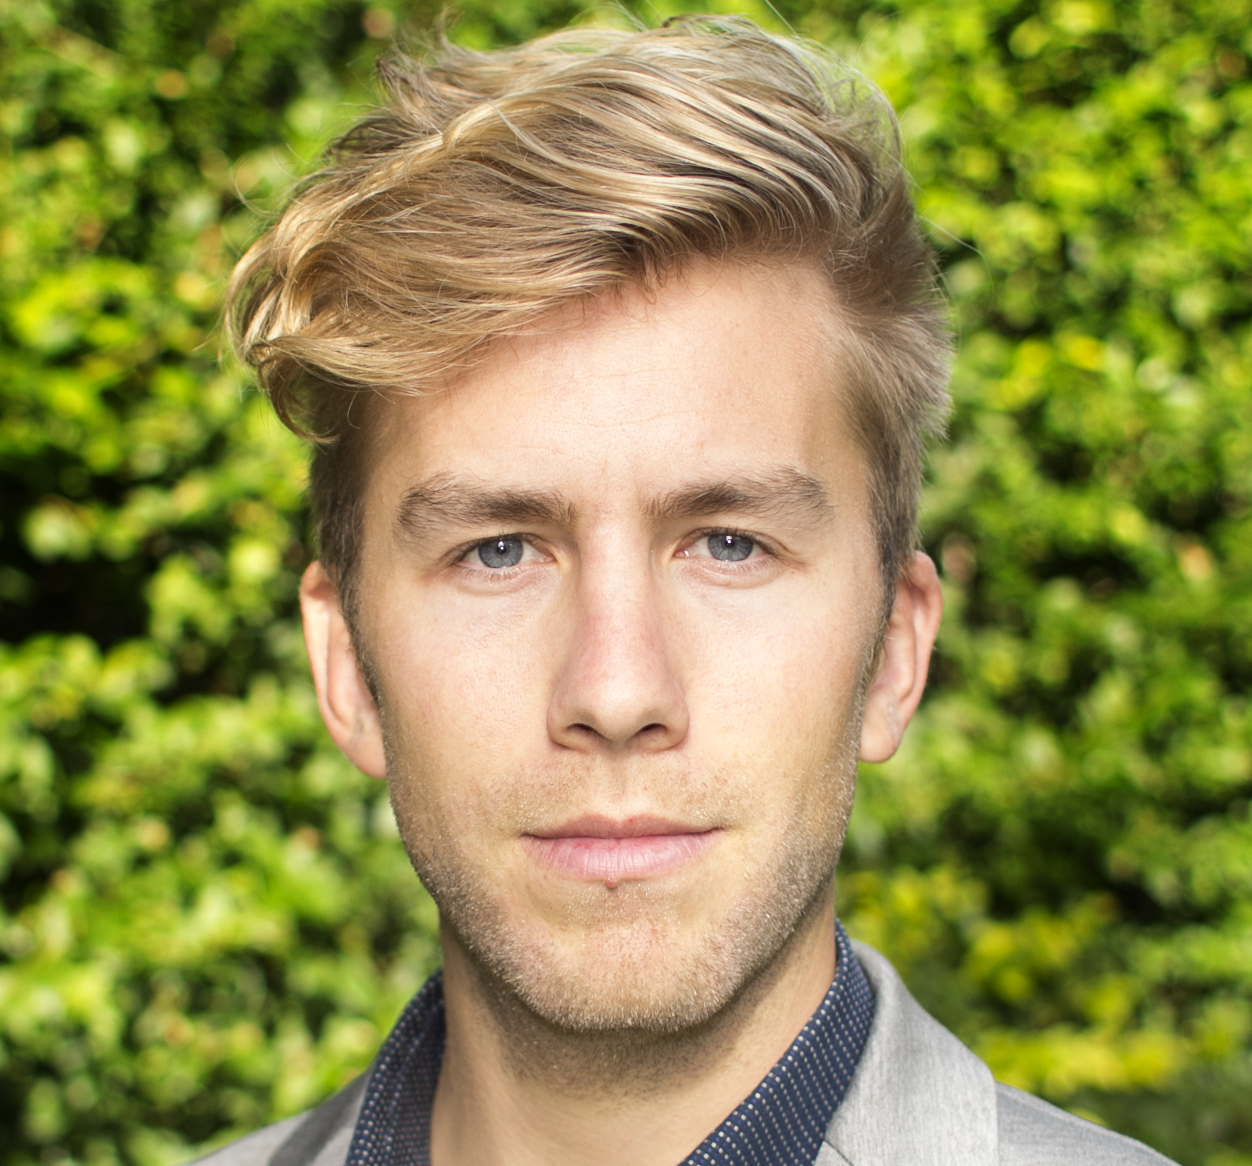
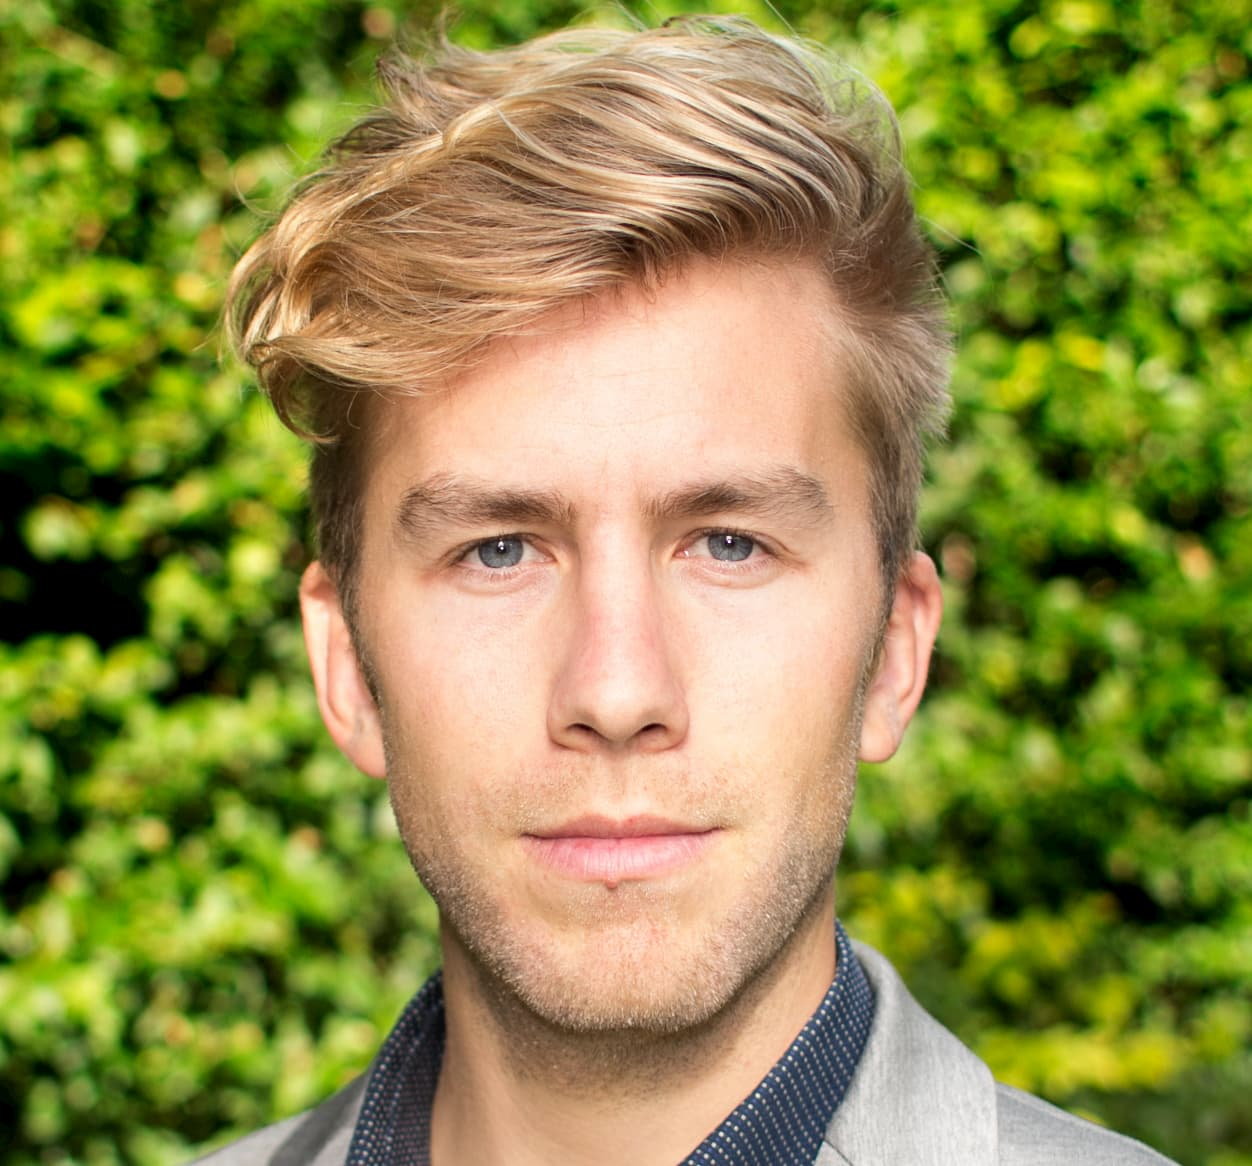
Img size update

diff --git a/style.css b/style.css
@@ -1,8 +1,10 @@
 @import url('https://fonts.googleapis.com/css2?family=Dancing+Script:wght@600&display=swap');
+@import url('https://fonts.googleapis.com/css2?family=Chewy&display=swap');
 
 
 html, body {
   font-family: 'Dancing Script', cursive;
+  font-family: 'Chewy', cursive;
   max-width: 500px;
   margin: auto;
   background-color: rgba(12, 11, 11, 0.753);
@@ -10,6 +12,7 @@ html, body {
 }
 
 body {
+  background-color: transparent;
   padding: 20px;
 }
 

diff --git a/index.html b/index.html
@@ -50,13 +50,14 @@
         <li>Snowboard</li>
       </ul>
 
-      <li>Sport</li>
-      <ul>
-        <li>Run</li>
-        <li>Cycle</li>
-        <li>Swim</li>
-        <li>Gaming</li>
-      </ul>
+      <li>Sport
+        <ul>
+          <li>Run</li>
+          <li>Cycle</li>
+          <li>Swim</li>
+          <li>Gaming</li>
+        </ul>
+      </li>
 
       <li>Presence</li>
       <ul>
